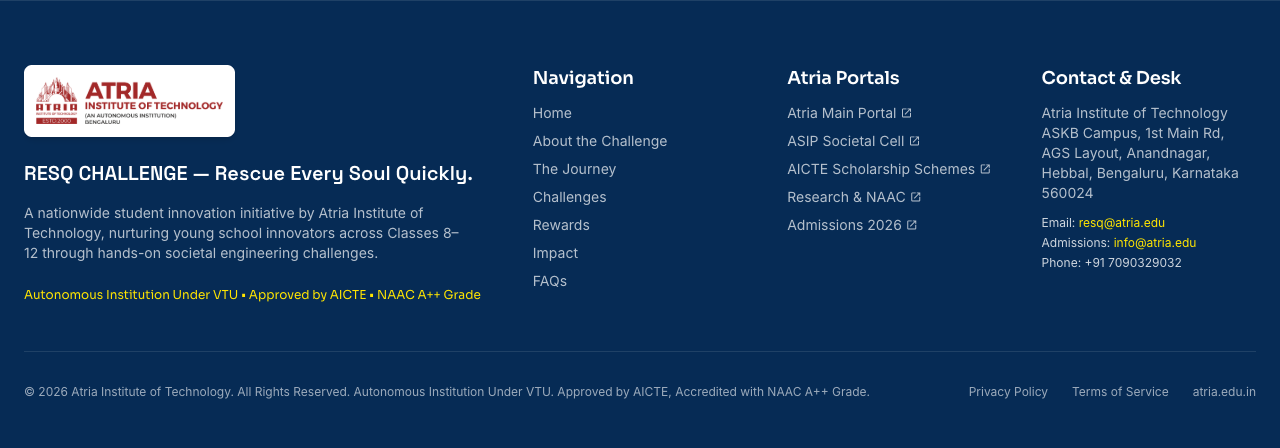
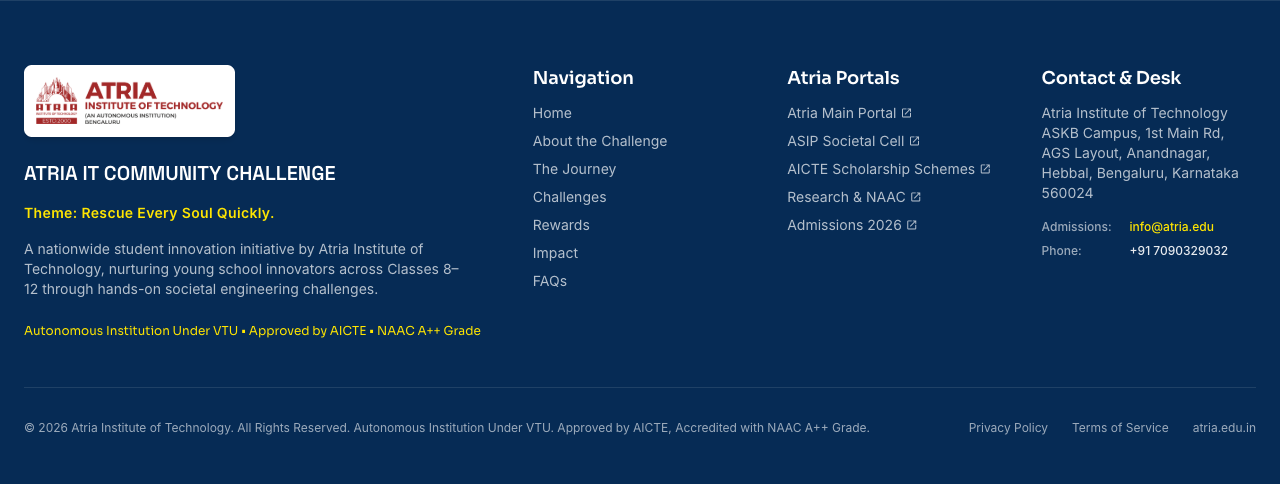
fix(footer): remove resq@atria.edu and align contact info with consistent spacing

diff --git a/src/components/Footer.jsx b/src/components/Footer.jsx
@@ -80,20 +80,25 @@ export const Footer = () => {
               Atria Institute of Technology<br />
               ASKB Campus, 1st Main Rd, AGS Layout, Anandnagar, Hebbal, Bengaluru, Karnataka 560024
             </p>
-            <div className="space-y-1 font-body-sm text-xs text-white/80">
-              <div>
-                Email:{" "}
-                <a className="text-electric-yellow hover:underline" href={`mailto:${institutionalMeta.contact.email}`}>
-                  {institutionalMeta.contact.email}
-                </a>
-              </div>
-              <div>
-                Admissions:{" "}
-                <a className="text-electric-yellow hover:underline" href={`mailto:${institutionalMeta.contact.admissionsEmail}`}>
+            <div className="space-y-2 pt-1 font-body-sm text-xs text-white/80">
+              <div className="flex items-baseline gap-2">
+                <span className="text-white/60 font-medium w-20 shrink-0">Admissions:</span>
+                <a
+                  className="text-electric-yellow hover:underline font-medium break-all"
+                  href={`mailto:${institutionalMeta.contact.admissionsEmail}`}
+                >
                   {institutionalMeta.contact.admissionsEmail}
                 </a>
               </div>
-              <div>Phone: {institutionalMeta.contact.phone}</div>
+              <div className="flex items-baseline gap-2">
+                <span className="text-white/60 font-medium w-20 shrink-0">Phone:</span>
+                <a
+                  className="text-white/90 hover:text-electric-yellow transition-colors font-medium"
+                  href={`tel:${institutionalMeta.contact.phone.replace(/\s+/g, '')}`}
+                >
+                  {institutionalMeta.contact.phone}
+                </a>
+              </div>
             </div>
           </div>
 

diff --git a/scripts/capture-closeups.js b/scripts/capture-closeups.js
@@ -57,6 +57,17 @@ server.listen(5174, async () => {
     console.log('Saved footer-closeup.png');
   }
 
+  // Also capture mobile footer at 375px
+  await page.setViewport({ width: 375, height: 800 });
+  await page.goto('http://127.0.0.1:5174', { waitUntil: 'networkidle0' });
+  const footerMobileEl = await page.$('#footer');
+  if (footerMobileEl) {
+    await footerMobileEl.scrollIntoView();
+    await new Promise(r => setTimeout(r, 400));
+    await footerMobileEl.screenshot({ path: path.join(screenshotsDir, 'footer-closeup-mobile.png') });
+    console.log('Saved footer-closeup-mobile.png');
+  }
+
   await browser.close();
   server.close();
   process.exit(0);

diff --git a/src/data/navigation.js b/src/data/navigation.js
@@ -25,7 +25,6 @@ export const institutionalMeta = {
   ],
   contact: {
     address: "Atria Institute of Technology, ASKB Campus, 1st Main Rd, AGS Layout, Anandnagar, Hebbal, Bengaluru, Karnataka 560024",
-    email: "resq@atria.edu",
     admissionsEmail: "info@atria.edu",
     phone: "+91 7090329032"
   }
